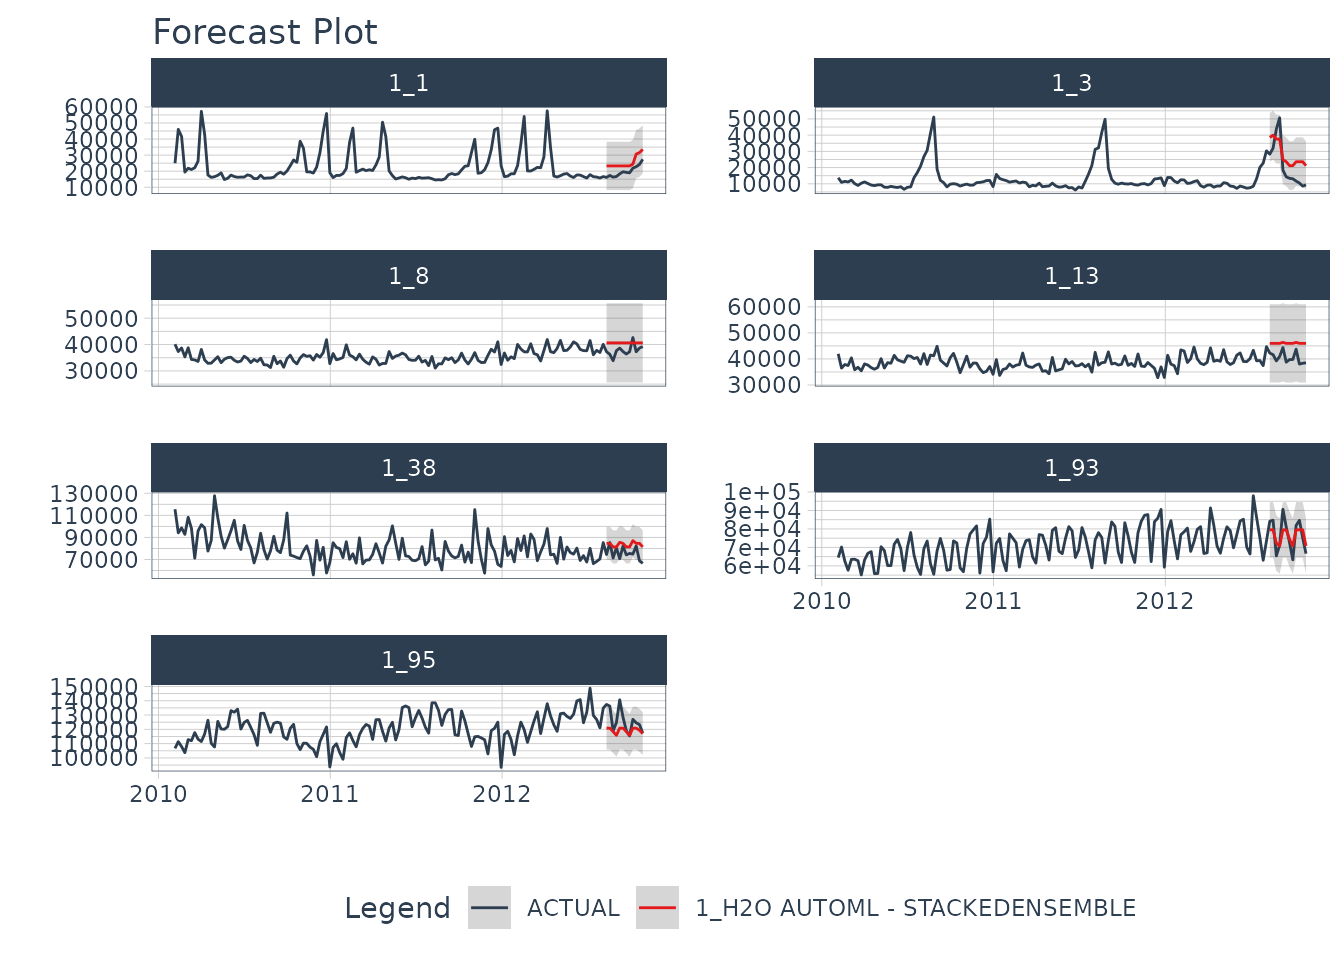
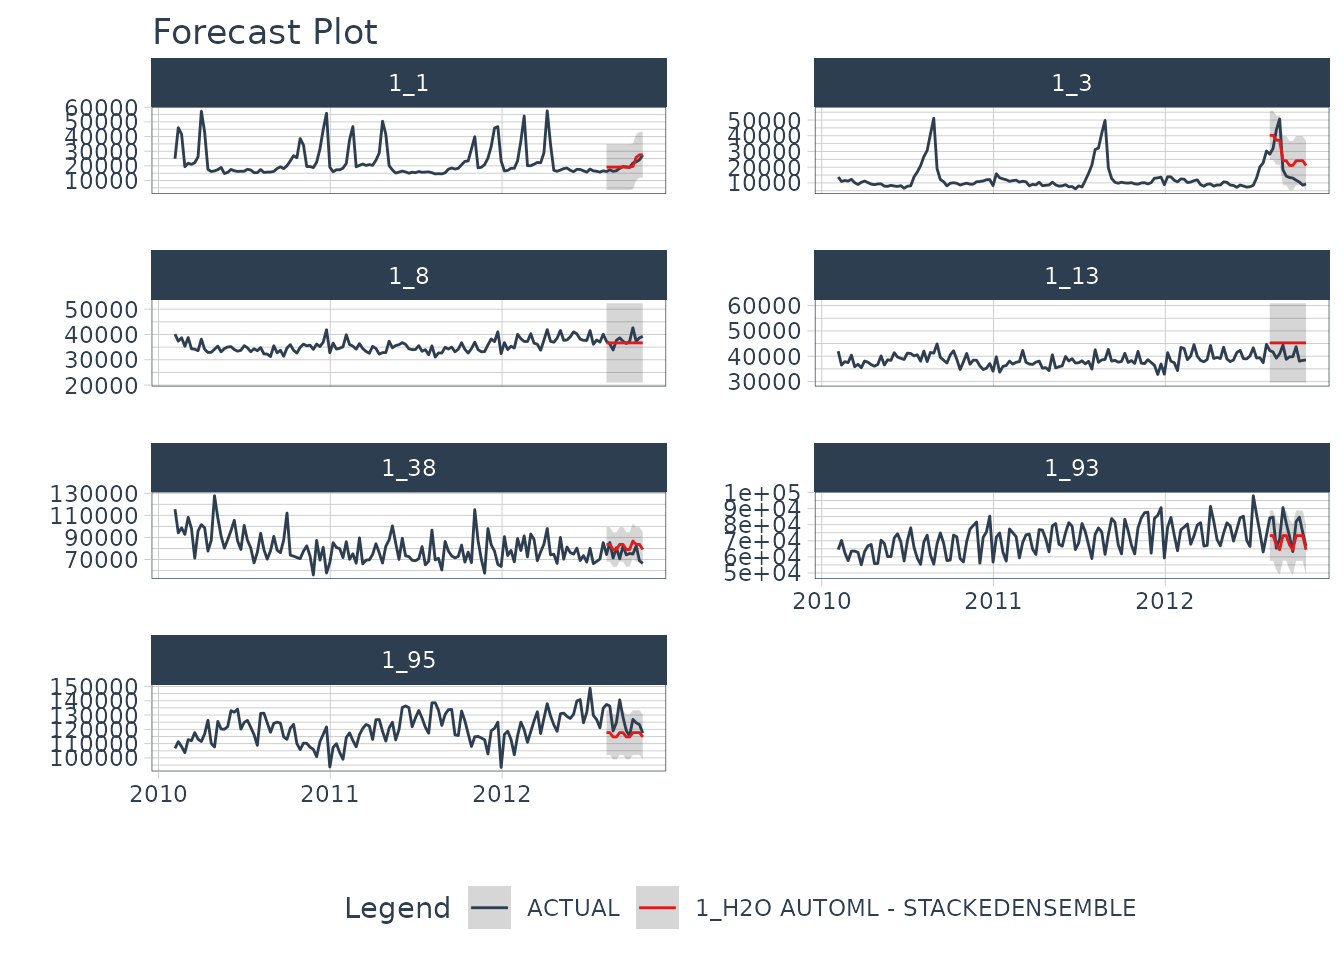
Built site for modeltime.h2o: 0.0.0.9000@482f9fd

diff --git a/articles/getting-started.html b/articles/getting-started.html
@@ -150,8 +150,8 @@
 <span class="va">recipe_spec</span> <span class="op">&lt;-</span> <span class="fu">recipe</span><span class="op">(</span><span class="va">Weekly_Sales</span> <span class="op">~</span> <span class="va">.</span>, data <span class="op">=</span> <span class="fu">training</span><span class="op">(</span><span class="va">splits</span><span class="op">)</span><span class="op">)</span> <span class="op">%&gt;%</span>
     <span class="fu"><a href="https://rdrr.io/pkg/timetk/man/step_timeseries_signature.html">step_timeseries_signature</a></span><span class="op">(</span><span class="va">Date</span><span class="op">)</span> 
 
-<span class="va">train_tbl</span> <span class="op">&lt;-</span> <span class="fu">rsample</span><span class="fu">::</span><span class="fu"><a href="https://rsample.tidymodels.org/reference/initial_split.html">training</a></span><span class="op">(</span><span class="va">splits</span><span class="op">)</span> <span class="op">%&gt;%</span> <span class="fu">bake</span><span class="op">(</span><span class="fu">prep</span><span class="op">(</span><span class="va">recipe_spec</span><span class="op">)</span>, <span class="va">.</span><span class="op">)</span>
-<span class="va">test_tbl</span>  <span class="op">&lt;-</span> <span class="fu">rsample</span><span class="fu">::</span><span class="fu"><a href="https://rsample.tidymodels.org/reference/initial_split.html">testing</a></span><span class="op">(</span><span class="va">splits</span><span class="op">)</span> <span class="op">%&gt;%</span> <span class="fu">bake</span><span class="op">(</span><span class="fu">prep</span><span class="op">(</span><span class="va">recipe_spec</span><span class="op">)</span>, <span class="va">.</span><span class="op">)</span></code></pre></div>
+<span class="va">train_tbl</span> <span class="op">&lt;-</span> <span class="fu">training</span><span class="op">(</span><span class="va">splits</span><span class="op">)</span> <span class="op">%&gt;%</span> <span class="fu">bake</span><span class="op">(</span><span class="fu">prep</span><span class="op">(</span><span class="va">recipe_spec</span><span class="op">)</span>, <span class="va">.</span><span class="op">)</span>
+<span class="va">test_tbl</span>  <span class="op">&lt;-</span> <span class="fu">testing</span><span class="op">(</span><span class="va">splits</span><span class="op">)</span> <span class="op">%&gt;%</span> <span class="fu">bake</span><span class="op">(</span><span class="fu">prep</span><span class="op">(</span><span class="va">recipe_spec</span><span class="op">)</span>, <span class="va">.</span><span class="op">)</span></code></pre></div>
 </div>
 <div id="model-specification-training-and-prediction" class="section level2">
 <h2 class="hasAnchor">
@@ -167,19 +167,19 @@
 <span class="co">#&gt; H2O is not running yet, starting it now...</span>
 <span class="co">#&gt; </span>
 <span class="co">#&gt; Note:  In case of errors look at the following log files:</span>
-<span class="co">#&gt;     /tmp/RtmpdZUgKG/file42de420fa60f/h2o_runner_started_from_r.out</span>
-<span class="co">#&gt;     /tmp/RtmpdZUgKG/file42de46281a41/h2o_runner_started_from_r.err</span>
+<span class="co">#&gt;     /tmp/RtmpsKKxsb/file43941532c9d8/h2o_runner_started_from_r.out</span>
+<span class="co">#&gt;     /tmp/RtmpsKKxsb/file43944eacc636/h2o_runner_started_from_r.err</span>
 <span class="co">#&gt; </span>
 <span class="co">#&gt; </span>
-<span class="co">#&gt; Starting H2O JVM and connecting: .. Connection successful!</span>
+<span class="co">#&gt; Starting H2O JVM and connecting: .... Connection successful!</span>
 <span class="co">#&gt; </span>
 <span class="co">#&gt; R is connected to the H2O cluster: </span>
-<span class="co">#&gt;     H2O cluster uptime:         1 seconds 946 milliseconds </span>
+<span class="co">#&gt;     H2O cluster uptime:         3 seconds 60 milliseconds </span>
 <span class="co">#&gt;     H2O cluster timezone:       UTC </span>
 <span class="co">#&gt;     H2O data parsing timezone:  UTC </span>
 <span class="co">#&gt;     H2O cluster version:        3.32.0.1 </span>
 <span class="co">#&gt;     H2O cluster version age:    5 months and 4 days !!! </span>
-<span class="co">#&gt;     H2O cluster name:           H2O_started_from_R_runner_fvn624 </span>
+<span class="co">#&gt;     H2O cluster name:           H2O_started_from_R_runner_dir538 </span>
 <span class="co">#&gt;     H2O cluster total nodes:    1 </span>
 <span class="co">#&gt;     H2O cluster total memory:   1.51 GB </span>
 <span class="co">#&gt;     H2O cluster total cores:    2 </span>
@@ -230,13 +230,13 @@
 <span id="cb6-9"><a href="#cb6-9"></a>  <span class="op">|</span><span class="st">                                                                            </span></span>
 <span id="cb6-10"><a href="#cb6-10"></a><span class="st">  </span><span class="er">|</span><span class="st">                                                                      </span><span class="er">|</span><span class="st">   </span><span class="dv">0</span>%</span>
 <span id="cb6-11"><a href="#cb6-11"></a>  <span class="op">|</span><span class="st">                                                                            </span></span>
-<span id="cb6-12"><a href="#cb6-12"></a><span class="st">  </span><span class="er">|==</span><span class="st">                                                                    </span><span class="er">|</span><span class="st">   </span><span class="dv">3</span>%</span>
+<span id="cb6-12"><a href="#cb6-12"></a><span class="st">  </span><span class="er">|===</span><span class="st">                                                                   </span><span class="er">|</span><span class="st">   </span><span class="dv">4</span>%</span>
 <span id="cb6-13"><a href="#cb6-13"></a>  <span class="op">|</span><span class="st">                                                                            </span></span>
 <span id="cb6-14"><a href="#cb6-14"></a><span class="st">  </span><span class="er">|=================</span><span class="st">                                                     </span><span class="er">|</span><span class="st">  </span><span class="dv">24</span>%</span>
 <span id="cb6-15"><a href="#cb6-15"></a>  <span class="op">|</span><span class="st">                                                                            </span></span>
-<span id="cb6-16"><a href="#cb6-16"></a><span class="st">  </span><span class="er">|===============================</span><span class="st">                                       </span><span class="er">|</span><span class="st">  </span><span class="dv">44</span>%</span>
+<span id="cb6-16"><a href="#cb6-16"></a><span class="st">  </span><span class="er">|===============================</span><span class="st">                                       </span><span class="er">|</span><span class="st">  </span><span class="dv">45</span>%</span>
 <span id="cb6-17"><a href="#cb6-17"></a>  <span class="op">|</span><span class="st">                                                                            </span></span>
-<span id="cb6-18"><a href="#cb6-18"></a><span class="st">  </span><span class="er">|=============================================</span><span class="st">                         </span><span class="er">|</span><span class="st">  </span><span class="dv">65</span>%</span>
+<span id="cb6-18"><a href="#cb6-18"></a><span class="st">  </span><span class="er">|==============================================</span><span class="st">                        </span><span class="er">|</span><span class="st">  </span><span class="dv">65</span>%</span>
 <span id="cb6-19"><a href="#cb6-19"></a>  <span class="op">|</span><span class="st">                                                                            </span></span>
 <span id="cb6-20"><a href="#cb6-20"></a><span class="st">  </span><span class="er">|======================================================================|</span><span class="st"> </span><span class="dv">100</span>%</span>
 <span id="cb6-21"><a href="#cb6-21"></a><span class="co">#&gt; </span></span>
@@ -245,22 +245,22 @@
 <span id="cb6-24"><a href="#cb6-24"></a>  <span class="op">|</span><span class="st">                                                                            </span></span>
 <span id="cb6-25"><a href="#cb6-25"></a><span class="st">  </span><span class="er">|======================================================================|</span><span class="st"> </span><span class="dv">100</span>%</span>
 <span id="cb6-26"><a href="#cb6-26"></a><span class="co">#&gt;                                           model_id mean_residual_deviance</span></span>
-<span id="cb6-27"><a href="#cb6-27"></a><span class="co">#&gt; 1 StackedEnsemble_AllModels_AutoML_20210313_023827              211588740</span></span>
-<span id="cb6-28"><a href="#cb6-28"></a><span class="co">#&gt; 2                 XGBoost_3_AutoML_20210313_023827              965649673</span></span>
-<span id="cb6-29"><a href="#cb6-29"></a><span class="co">#&gt; 3                 XGBoost_2_AutoML_20210313_023827              988159932</span></span>
-<span id="cb6-30"><a href="#cb6-30"></a><span class="co">#&gt; 4                 XGBoost_1_AutoML_20210313_023827             1443141939</span></span>
-<span id="cb6-31"><a href="#cb6-31"></a><span class="co">#&gt;       rmse        mse      mae     rmsle</span></span>
-<span id="cb6-32"><a href="#cb6-32"></a><span class="co">#&gt; 1 14546.09  211588740 10632.09 0.2782992</span></span>
-<span id="cb6-33"><a href="#cb6-33"></a><span class="co">#&gt; 2 31074.90  965649673 20168.95 0.7839469</span></span>
-<span id="cb6-34"><a href="#cb6-34"></a><span class="co">#&gt; 3 31435.01  988159932 22856.93 0.7258489</span></span>
-<span id="cb6-35"><a href="#cb6-35"></a><span class="co">#&gt; 4 37988.71 1443141939 27805.73 0.9662266</span></span>
+<span id="cb6-27"><a href="#cb6-27"></a><span class="co">#&gt; 1 StackedEnsemble_AllModels_AutoML_20210313_024948               76338403</span></span>
+<span id="cb6-28"><a href="#cb6-28"></a><span class="co">#&gt; 2                 XGBoost_3_AutoML_20210313_024948              974410205</span></span>
+<span id="cb6-29"><a href="#cb6-29"></a><span class="co">#&gt; 3                 XGBoost_1_AutoML_20210313_024948             1223130324</span></span>
+<span id="cb6-30"><a href="#cb6-30"></a><span class="co">#&gt; 4                 XGBoost_2_AutoML_20210313_024948             1481254968</span></span>
+<span id="cb6-31"><a href="#cb6-31"></a><span class="co">#&gt;        rmse        mse       mae     rmsle</span></span>
+<span id="cb6-32"><a href="#cb6-32"></a><span class="co">#&gt; 1  8737.185   76338403  6175.395 0.1745528</span></span>
+<span id="cb6-33"><a href="#cb6-33"></a><span class="co">#&gt; 2 31215.544  974410205 20654.011 0.7859500</span></span>
+<span id="cb6-34"><a href="#cb6-34"></a><span class="co">#&gt; 3 34973.280 1223130324 25570.183 0.8518968</span></span>
+<span id="cb6-35"><a href="#cb6-35"></a><span class="co">#&gt; 4 38487.075 1481254968 28912.832 0.9822455</span></span>
 <span id="cb6-36"><a href="#cb6-36"></a><span class="co">#&gt; </span></span>
 <span id="cb6-37"><a href="#cb6-37"></a><span class="co">#&gt; [4 rows x 6 columns]</span></span>
 <span id="cb6-38"><a href="#cb6-38"></a></span>
 <span id="cb6-39"><a href="#cb6-39"></a>model_fitted</span>
 <span id="cb6-40"><a href="#cb6-40"></a><span class="co">#&gt; parsnip model object</span></span>
 <span id="cb6-41"><a href="#cb6-41"></a><span class="co">#&gt; </span></span>
-<span id="cb6-42"><a href="#cb6-42"></a><span class="co">#&gt; Fit time:  13.5s </span></span>
+<span id="cb6-42"><a href="#cb6-42"></a><span class="co">#&gt; Fit time:  13.8s </span></span>
 <span id="cb6-43"><a href="#cb6-43"></a><span class="co">#&gt; </span></span>
 <span id="cb6-44"><a href="#cb6-44"></a><span class="co">#&gt; H2O AutoML - Stackedensemble</span></span>
 <span id="cb6-45"><a href="#cb6-45"></a><span class="co">#&gt; --------</span></span>
@@ -268,7 +268,7 @@
 <span id="cb6-47"><a href="#cb6-47"></a><span class="co">#&gt; ==============</span></span>
 <span id="cb6-48"><a href="#cb6-48"></a><span class="co">#&gt; </span></span>
 <span id="cb6-49"><a href="#cb6-49"></a><span class="co">#&gt; H2ORegressionModel: stackedensemble</span></span>
-<span id="cb6-50"><a href="#cb6-50"></a><span class="co">#&gt; Model ID:  StackedEnsemble_AllModels_AutoML_20210313_023827 </span></span>
+<span id="cb6-50"><a href="#cb6-50"></a><span class="co">#&gt; Model ID:  StackedEnsemble_AllModels_AutoML_20210313_024948 </span></span>
 <span id="cb6-51"><a href="#cb6-51"></a><span class="co">#&gt; Number of Base Models: 3</span></span>
 <span id="cb6-52"><a href="#cb6-52"></a><span class="co">#&gt; </span></span>
 <span id="cb6-53"><a href="#cb6-53"></a><span class="co">#&gt; Base Models (count by algorithm type):</span></span>
@@ -289,11 +289,11 @@
 <span id="cb6-68"><a href="#cb6-68"></a><span class="co">#&gt; H2ORegressionMetrics: stackedensemble</span></span>
 <span id="cb6-69"><a href="#cb6-69"></a><span class="co">#&gt; ** Reported on training data. **</span></span>
 <span id="cb6-70"><a href="#cb6-70"></a><span class="co">#&gt; </span></span>
-<span id="cb6-71"><a href="#cb6-71"></a><span class="co">#&gt; MSE:  90763200</span></span>
-<span id="cb6-72"><a href="#cb6-72"></a><span class="co">#&gt; RMSE:  9526.972</span></span>
-<span id="cb6-73"><a href="#cb6-73"></a><span class="co">#&gt; MAE:  8243.805</span></span>
-<span id="cb6-74"><a href="#cb6-74"></a><span class="co">#&gt; RMSLE:  0.3454141</span></span>
-<span id="cb6-75"><a href="#cb6-75"></a><span class="co">#&gt; Mean Residual Deviance :  90763200</span></span>
+<span id="cb6-71"><a href="#cb6-71"></a><span class="co">#&gt; MSE:  83360594</span></span>
+<span id="cb6-72"><a href="#cb6-72"></a><span class="co">#&gt; RMSE:  9130.202</span></span>
+<span id="cb6-73"><a href="#cb6-73"></a><span class="co">#&gt; MAE:  7220.351</span></span>
+<span id="cb6-74"><a href="#cb6-74"></a><span class="co">#&gt; RMSLE:  0.3386242</span></span>
+<span id="cb6-75"><a href="#cb6-75"></a><span class="co">#&gt; Mean Residual Deviance :  83360594</span></span>
 <span id="cb6-76"><a href="#cb6-76"></a><span class="co">#&gt; </span></span>
 <span id="cb6-77"><a href="#cb6-77"></a><span class="co">#&gt; </span></span>
 <span id="cb6-78"><a href="#cb6-78"></a><span class="co">#&gt; </span></span>
@@ -301,11 +301,11 @@
 <span id="cb6-80"><a href="#cb6-80"></a><span class="co">#&gt; ** Reported on cross-validation data. **</span></span>
 <span id="cb6-81"><a href="#cb6-81"></a><span class="co">#&gt; ** 5-fold cross-validation on training data (Metrics computed for combined holdout predictions) **</span></span>
 <span id="cb6-82"><a href="#cb6-82"></a><span class="co">#&gt; </span></span>
-<span id="cb6-83"><a href="#cb6-83"></a><span class="co">#&gt; MSE:  211588740</span></span>
-<span id="cb6-84"><a href="#cb6-84"></a><span class="co">#&gt; RMSE:  14546.09</span></span>
-<span id="cb6-85"><a href="#cb6-85"></a><span class="co">#&gt; MAE:  10632.09</span></span>
-<span id="cb6-86"><a href="#cb6-86"></a><span class="co">#&gt; RMSLE:  0.2782992</span></span>
-<span id="cb6-87"><a href="#cb6-87"></a><span class="co">#&gt; Mean Residual Deviance :  211588740</span></span></code></pre></div>
+<span id="cb6-83"><a href="#cb6-83"></a><span class="co">#&gt; MSE:  76338403</span></span>
+<span id="cb6-84"><a href="#cb6-84"></a><span class="co">#&gt; RMSE:  8737.185</span></span>
+<span id="cb6-85"><a href="#cb6-85"></a><span class="co">#&gt; MAE:  6175.395</span></span>
+<span id="cb6-86"><a href="#cb6-86"></a><span class="co">#&gt; RMSLE:  0.1745528</span></span>
+<span id="cb6-87"><a href="#cb6-87"></a><span class="co">#&gt; Mean Residual Deviance :  76338403</span></span></code></pre></div>
 <p>Finally, we predict on the test dataset:</p>
 <div class="sourceCode" id="cb7"><pre class="sourceCode r"><code class="sourceCode r"><span id="cb7-1"><a href="#cb7-1"></a><span class="kw">predict</span>(model_fitted, test_tbl)</span>
 <span id="cb7-2"><a href="#cb7-2"></a><span class="co">#&gt; </span></span>
@@ -321,16 +321,16 @@
 <span id="cb7-12"><a href="#cb7-12"></a><span class="co">#&gt; # A tibble: 84 x 1</span></span>
 <span id="cb7-13"><a href="#cb7-13"></a><span class="co">#&gt;      .pred</span></span>
 <span id="cb7-14"><a href="#cb7-14"></a><span class="co">#&gt;      &lt;dbl&gt;</span></span>
-<span id="cb7-15"><a href="#cb7-15"></a><span class="co">#&gt;  1  23275.</span></span>
-<span id="cb7-16"><a href="#cb7-16"></a><span class="co">#&gt;  2  38607.</span></span>
-<span id="cb7-17"><a href="#cb7-17"></a><span class="co">#&gt;  3  40635.</span></span>
-<span id="cb7-18"><a href="#cb7-18"></a><span class="co">#&gt;  4  45979.</span></span>
-<span id="cb7-19"><a href="#cb7-19"></a><span class="co">#&gt;  5  84616.</span></span>
-<span id="cb7-20"><a href="#cb7-20"></a><span class="co">#&gt;  6  79509.</span></span>
-<span id="cb7-21"><a href="#cb7-21"></a><span class="co">#&gt;  7 120838.</span></span>
-<span id="cb7-22"><a href="#cb7-22"></a><span class="co">#&gt;  8  23275.</span></span>
-<span id="cb7-23"><a href="#cb7-23"></a><span class="co">#&gt;  9  39970.</span></span>
-<span id="cb7-24"><a href="#cb7-24"></a><span class="co">#&gt; 10  40635.</span></span>
+<span id="cb7-15"><a href="#cb7-15"></a><span class="co">#&gt;  1  19168.</span></span>
+<span id="cb7-16"><a href="#cb7-16"></a><span class="co">#&gt;  2  40233.</span></span>
+<span id="cb7-17"><a href="#cb7-17"></a><span class="co">#&gt;  3  36676.</span></span>
+<span id="cb7-18"><a href="#cb7-18"></a><span class="co">#&gt;  4  45263.</span></span>
+<span id="cb7-19"><a href="#cb7-19"></a><span class="co">#&gt;  5  83686.</span></span>
+<span id="cb7-20"><a href="#cb7-20"></a><span class="co">#&gt;  6  73212.</span></span>
+<span id="cb7-21"><a href="#cb7-21"></a><span class="co">#&gt;  7 117720.</span></span>
+<span id="cb7-22"><a href="#cb7-22"></a><span class="co">#&gt;  8  19168.</span></span>
+<span id="cb7-23"><a href="#cb7-23"></a><span class="co">#&gt;  9  40233.</span></span>
+<span id="cb7-24"><a href="#cb7-24"></a><span class="co">#&gt; 10  36676.</span></span>
 <span id="cb7-25"><a href="#cb7-25"></a><span class="co">#&gt; # … with 74 more rows</span></span></code></pre></div>
 </div>
 <div id="modeltime-workflow" class="section level2">
@@ -423,13 +423,13 @@
 <span id="cb11-9"><a href="#cb11-9"></a>  <span class="op">|</span><span class="st">                                                                            </span></span>
 <span id="cb11-10"><a href="#cb11-10"></a><span class="st">  </span><span class="er">|</span><span class="st">                                                                      </span><span class="er">|</span><span class="st">   </span><span class="dv">0</span>%</span>
 <span id="cb11-11"><a href="#cb11-11"></a>  <span class="op">|</span><span class="st">                                                                            </span></span>
-<span id="cb11-12"><a href="#cb11-12"></a><span class="st">  </span><span class="er">|==</span><span class="st">                                                                    </span><span class="er">|</span><span class="st">   </span><span class="dv">3</span>%</span>
+<span id="cb11-12"><a href="#cb11-12"></a><span class="st">  </span><span class="er">|===</span><span class="st">                                                                   </span><span class="er">|</span><span class="st">   </span><span class="dv">4</span>%</span>
 <span id="cb11-13"><a href="#cb11-13"></a>  <span class="op">|</span><span class="st">                                                                            </span></span>
 <span id="cb11-14"><a href="#cb11-14"></a><span class="st">  </span><span class="er">|=================</span><span class="st">                                                     </span><span class="er">|</span><span class="st">  </span><span class="dv">24</span>%</span>
 <span id="cb11-15"><a href="#cb11-15"></a>  <span class="op">|</span><span class="st">                                                                            </span></span>
 <span id="cb11-16"><a href="#cb11-16"></a><span class="st">  </span><span class="er">|===============================</span><span class="st">                                       </span><span class="er">|</span><span class="st">  </span><span class="dv">44</span>%</span>
 <span id="cb11-17"><a href="#cb11-17"></a>  <span class="op">|</span><span class="st">                                                                            </span></span>
-<span id="cb11-18"><a href="#cb11-18"></a><span class="st">  </span><span class="er">|=============================================</span><span class="st">                         </span><span class="er">|</span><span class="st">  </span><span class="dv">64</span>%</span>
+<span id="cb11-18"><a href="#cb11-18"></a><span class="st">  </span><span class="er">|=============================================</span><span class="st">                         </span><span class="er">|</span><span class="st">  </span><span class="dv">65</span>%</span>
 <span id="cb11-19"><a href="#cb11-19"></a>  <span class="op">|</span><span class="st">                                                                            </span></span>
 <span id="cb11-20"><a href="#cb11-20"></a><span class="st">  </span><span class="er">|======================================================================|</span><span class="st"> </span><span class="dv">100</span>%</span>
 <span id="cb11-21"><a href="#cb11-21"></a><span class="co">#&gt; </span></span>
@@ -438,15 +438,15 @@
 <span id="cb11-24"><a href="#cb11-24"></a>  <span class="op">|</span><span class="st">                                                                            </span></span>
 <span id="cb11-25"><a href="#cb11-25"></a><span class="st">  </span><span class="er">|======================================================================|</span><span class="st"> </span><span class="dv">100</span>%</span>
 <span id="cb11-26"><a href="#cb11-26"></a><span class="co">#&gt;                                           model_id mean_residual_deviance</span></span>
-<span id="cb11-27"><a href="#cb11-27"></a><span class="co">#&gt; 1 StackedEnsemble_AllModels_AutoML_20210313_023844               89872590</span></span>
-<span id="cb11-28"><a href="#cb11-28"></a><span class="co">#&gt; 2                 XGBoost_3_AutoML_20210313_023844             1887913493</span></span>
-<span id="cb11-29"><a href="#cb11-29"></a><span class="co">#&gt; 3                 XGBoost_2_AutoML_20210313_023844             2202249547</span></span>
-<span id="cb11-30"><a href="#cb11-30"></a><span class="co">#&gt; 4                 XGBoost_1_AutoML_20210313_023844             2261584439</span></span>
-<span id="cb11-31"><a href="#cb11-31"></a><span class="co">#&gt;        rmse        mse       mae     rmsle</span></span>
-<span id="cb11-32"><a href="#cb11-32"></a><span class="co">#&gt; 1  9480.116   89872590  7023.262 0.2293239</span></span>
-<span id="cb11-33"><a href="#cb11-33"></a><span class="co">#&gt; 2 43450.127 1887913493 34646.739 1.1032775</span></span>
-<span id="cb11-34"><a href="#cb11-34"></a><span class="co">#&gt; 3 46928.132 2202249547 38496.136 1.2258330</span></span>
-<span id="cb11-35"><a href="#cb11-35"></a><span class="co">#&gt; 4 47556.119 2261584439 38597.183 1.2282724</span></span>
+<span id="cb11-27"><a href="#cb11-27"></a><span class="co">#&gt; 1 StackedEnsemble_AllModels_AutoML_20210313_025008               89598713</span></span>
+<span id="cb11-28"><a href="#cb11-28"></a><span class="co">#&gt; 2                 XGBoost_3_AutoML_20210313_025008             2001994559</span></span>
+<span id="cb11-29"><a href="#cb11-29"></a><span class="co">#&gt; 3                 XGBoost_2_AutoML_20210313_025008             2202249547</span></span>
+<span id="cb11-30"><a href="#cb11-30"></a><span class="co">#&gt; 4                 XGBoost_1_AutoML_20210313_025008             2261584439</span></span>
+<span id="cb11-31"><a href="#cb11-31"></a><span class="co">#&gt;       rmse        mse       mae     rmsle</span></span>
+<span id="cb11-32"><a href="#cb11-32"></a><span class="co">#&gt; 1  9465.66   89598713  7017.267 0.2297752</span></span>
+<span id="cb11-33"><a href="#cb11-33"></a><span class="co">#&gt; 2 44743.65 2001994559 36200.562 1.1252126</span></span>
+<span id="cb11-34"><a href="#cb11-34"></a><span class="co">#&gt; 3 46928.13 2202249547 38496.136 1.2258330</span></span>
+<span id="cb11-35"><a href="#cb11-35"></a><span class="co">#&gt; 4 47556.12 2261584439 38597.183 1.2282724</span></span>
 <span id="cb11-36"><a href="#cb11-36"></a><span class="co">#&gt; </span></span>
 <span id="cb11-37"><a href="#cb11-37"></a><span class="co">#&gt; [4 rows x 6 columns]</span></span>
 <span id="cb11-38"><a href="#cb11-38"></a></span>
@@ -512,8 +512,9 @@
 <li>and more.</li>
 </ul>
 <p class="text-center" style="font-size:30px;">
-<a href="https://university.business-science.io/p/ds4b-203-r-high-performance-time-series-forecasting">Unlock the High-Performance Time Series Forecasting Course</a>
 </p>
+<p><a href="https://university.business-science.io/p/ds4b-203-r-high-performance-time-series-forecasting">Unlock the High-Performance Time Series Forecasting Course</a></p>
+
 </div>
   </div>
 
